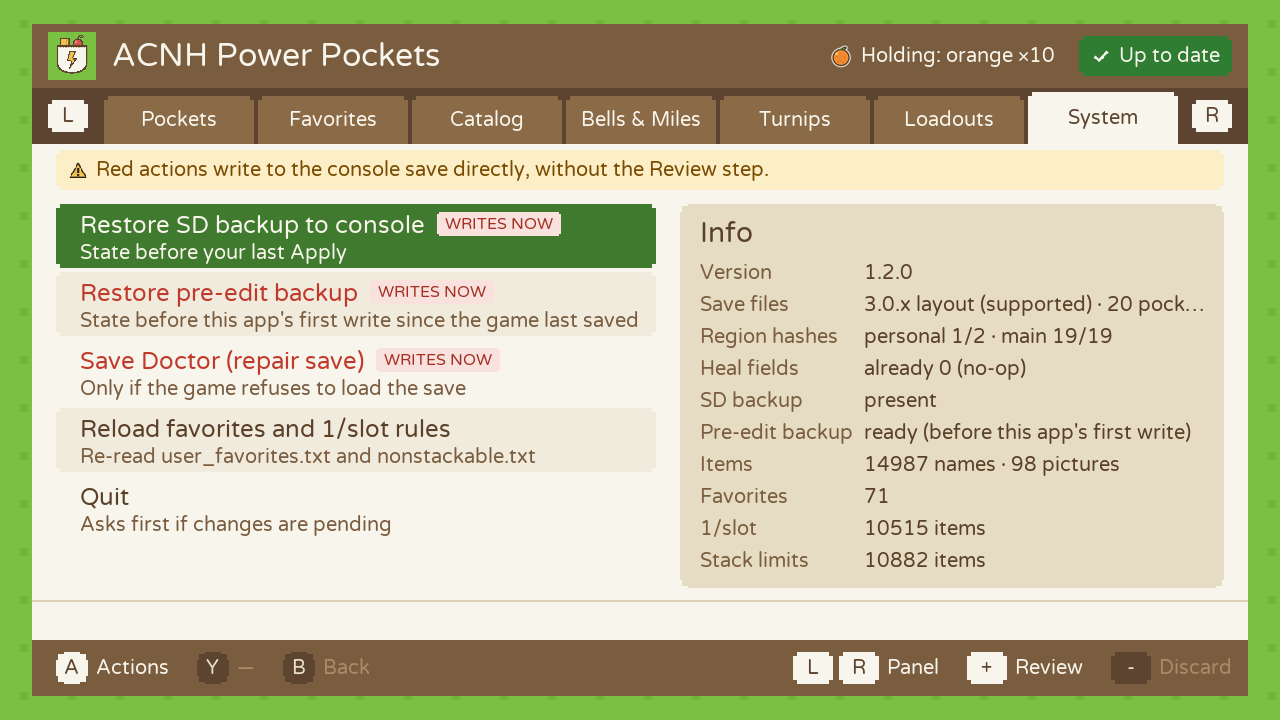
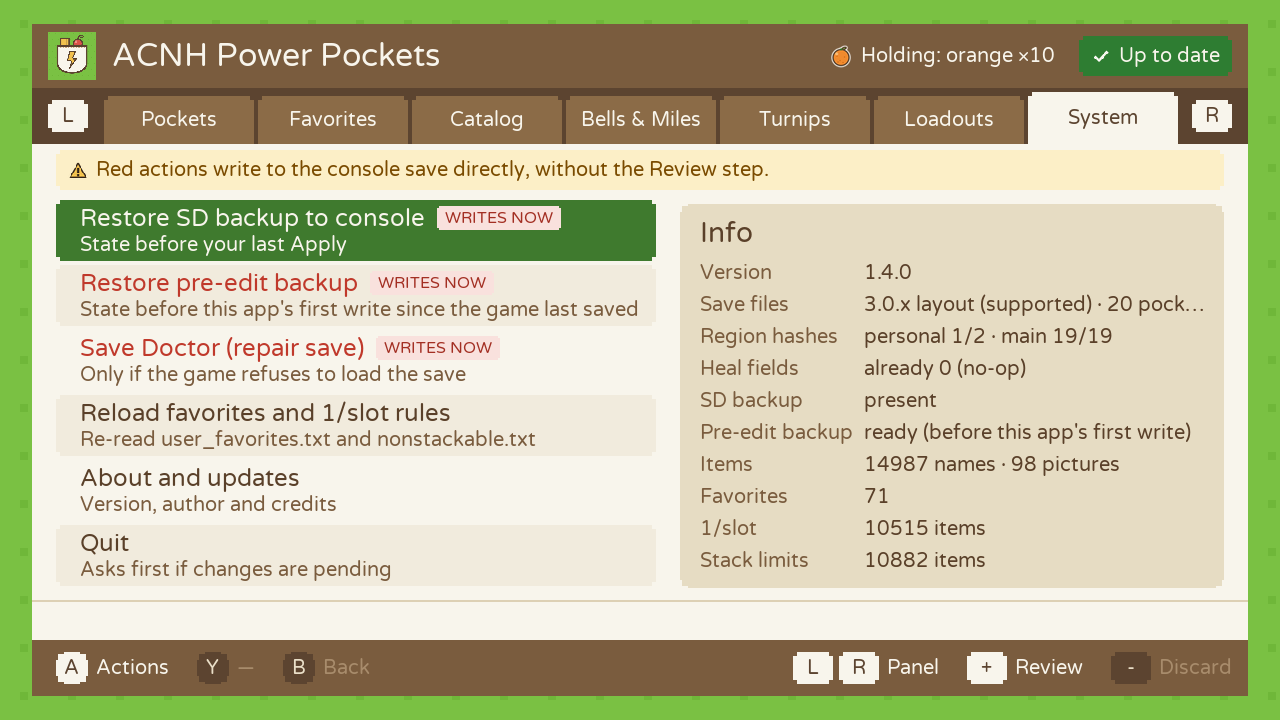
v1.4.0: lists from catalogue.ac over Wi-Fi, About and updates from the app
- Version 1.4.0.
- README: screenshots of Your lists, a list, the Receive screen, the page on a phone
  and About; one file per received list in lists/.
- The status line no longer says "0 items" on "Receive a list from catalogue.ac".
- The screenshot gallery renders the lists, with a healthy save.

Changed region(s): [[0.0312, 0.275, 0.5, 0.825], [0.6875, 0.3667, 0.7188, 0.3972]]

diff --git a/tests/host/ui_gallery.cpp b/tests/host/ui_gallery.cpp
@@ -13,6 +13,8 @@
 #include <string>
 #include <vector>
 #include <deque>
+#include <functional>
+#include <sys/stat.h>
 
 using namespace pp;
 
@@ -61,7 +63,7 @@ int main(int argc, char** argv) {
     const std::string root = argv[1];
     g_out = argv[2];
     const std::string sd = g_out + "/sd/";
-    const char* assets[] = { "font.ttf", "icon.png", "ui_icons.png", "author.png", "nonstackable.txt", "item_glyphs.png", "item_glyphs.txt", "item_stacks.txt", "item_collections.txt" };
+    const char* assets[] = { "font.ttf", "icon.png", "ui_icons.png", "author.png", "nonstackable.txt", "item_glyphs.png", "item_glyphs.txt", "item_stacks.txt", "item_collections.txt", "catalogue_ac.txt" };
     for (const char* a : assets) copyFile((root + "/assets/" + a).c_str(), (sd + a).c_str());
 
     std::vector<Item> items;
@@ -232,6 +234,45 @@ int main(int argc, char** argv) {
 
     (void)L;
     ui.shutdown();
+
+    // Lists from catalogue.ac: Your lists, one list open, and the Receive screen.
+    {
+        struct ShowReceiver : Receiver {
+            bool open(std::string& address, int& code, bool& offline) override { offline = false; address = "http://192.168.1.23:8080"; code = 4821; return true; }
+            void close() override {}
+            void poll(const std::function<ReceiveReply(const std::string&)>&) override {}
+            bool lockedOut() override { return false; }
+        } rx;
+        ClothingIds clothing; clothing.load((sd + "catalogue_ac.txt").c_str());
+        const std::string dir = sd + "lists";
+        mkdir(dir.c_str(), 0777);
+        FILE* lf = fopen((dir + "/catalogue-2026-11-26.json").c_str(), "wb");
+        if (lf) {
+            fprintf(lf, "{\"lists\":[{\"name\":\"Japanese bedroom\",\"items\":{\"%d\":1,\"%d\":1,\"%d\":1,\"%d\":2,\"%d\":1,\"%d\":1,\"%d\":2,\"%d\":4}},"
+                        "{\"name\":\"Garden party\",\"items\":{\"%d\":1,\"%d\":4,\"%d\":2,\"%d\":6,\"%d\":2}}]}",
+                    I("imperial bed"), I("imperial chest"), I("imperial low table"), I("imperial partition"), I("imperial decorative shelves"),
+                    I("bamboo shelf"), I("bamboo stool"), I("paper lantern"),
+                    I("outdoor picnic set"), I("tiki torch"), I("garden lantern"), I("rope fence"), I("stone lion-dog"));
+            fclose(lf);
+        }
+        ImportedLists lists; lists.load(dir, items, clothing);
+        EngineHooks hl = h;
+        hl.receiver = &rx; hl.lists = &lists; hl.clothing = &clothing; hl.listsDir = dir;
+        hl.info = [&](InfoData& d) {
+            d.saveSizeOk = true; d.personalSize = 0x74A40; d.mainSize = 0x9B0E90;
+            d.pRegOk = d.pRegCount = 2; d.mRegOk = d.mRegCount = 19; d.poisonAllZero = true;
+            d.backupPersonal = d.backupMain = d.sessionPersonal = d.sessionMain = 1;
+        };
+        Ui ul; ul.init(ren, sd); ul.start(hl); idle(ul);
+        press(ul, R, 2); press(ul, RIGHT); press(ul, A); press(ul, DOWN); idle(ul);
+        shot("lists");
+        press(ul, Y); idle(ul);
+        shot("list-open");
+        press(ul, UP); press(ul, RIGHT); press(ul, A); press(ul, UP); press(ul, A); idle(ul);
+        shot("list-receive");
+        press(ul, B); idle(ul);
+        ul.shutdown();
+    }
 
     // Pockets with the two upgrades (40 slots): the grid grows to 4 columns.
     {

diff --git a/source/pp_ui.cpp b/source/pp_ui.cpp
@@ -2238,7 +2238,9 @@ struct Ui::Impl {
                         const CollRef& r = L[std::max(0, std::min(browseFocus, (int)L.size() - 1))];
                         const CollectionGroup& g = allG[r.g];
                         const int n = (int)g.list[r.c].ids.size();
-                        d = g.name + S::DOT + g.list[r.c].name + S::DOT + fmt(S::COLL_COUNT_FMT, n, plural(n));
+                        const UserEntry* ue = userEntry(r.g, r.c);
+                        d = g.name + S::DOT + g.list[r.c].name + S::DOT
+                          + (!ue || ue->kind == 1 ? fmt(S::COLL_COUNT_FMT, n, plural(n)) : std::string(ue->kind == 0 ? S::RX_ENTRY_NOTE : S::LIST_BAD_RIGHT));
                     }
                 } else if (focus[P_CATALOG] > 0 && focus[P_CATALOG] <= (int)results.size()) {
                     uint16_t id = (uint16_t)results[focus[P_CATALOG] - 1];

diff --git a/source/pp_strings.h b/source/pp_strings.h
@@ -128,6 +128,7 @@ static const char* const GRP_YOUR_LISTS   = "Your lists";
 static const char* const LISTS_CREDIT     = "Lists from catalogue.ac";
 static const char* const RX_ENTRY         = "Receive a list from catalogue.ac";
 static const char* const RX_ENTRY_RIGHT   = "Wi-Fi";
+static const char* const RX_ENTRY_NOTE    = "from your phone or computer, over Wi-Fi";
 static const char* const LIST_BAD_FMT     = "%s \xC2\xB7 can't be read";
 static const char* const LIST_BAD_RIGHT   = "A: delete";
 static const char* const M_OPEN_LIST      = "Open";

diff --git a/README.md b/README.md
@@ -61,6 +61,15 @@ With the pocket upgrades from Nook's Cranny, the grid shows your 30 or 40 slots.
 | ![Catalog search results for sneakers, each in its own color](docs/screenshots/catalog.png) | ![The Japanese traditional collection, filtered to furniture](docs/screenshots/collections.png) |
 | **Catalog.** Search about 11,000 named items by name or by hex ID. | **Collections.** 113 themed lists: a Japanese traditional style, furniture series, HHA themes, clothing styles. **ZL / ZR** keep one type of item. |
 
+### Your catalogue.ac lists, sent from your phone
+
+Plan a room on [The ULTIMATE Catalogue](https://catalogue.ac), then send your lists to the console over your own Wi-Fi, without taking the SD card out. **A › Fill pockets with this list** puts what a list still needs into your empty slots and skips what you already carry. See [Lists from catalogue.ac](#lists-from-catalogueac).
+
+| | |
+|---|---|
+| ![Your lists in the Catalog: Receive a list, then two lists from catalogue.ac](docs/screenshots/lists.png) | ![A list from catalogue.ac open in the Catalog](docs/screenshots/list-open.png) |
+| **Your lists**, above the collections. **A** for Fill pockets or Delete, **Y** to open. | **A list, open.** Take its items with **Y**, like any collection. |
+
 ![Loadouts panel with a preview of the saved pockets](docs/screenshots/loadouts.png)
 
 **Loadouts.** Five pocket setups saved on the SD card, with a preview.
@@ -108,7 +117,7 @@ Do this once, with a save you can afford to lose. It checks, on your console and
 
 Requirements: a Switch running Atmosphère, and Animal Crossing: New Horizons **3.0.x** (other save versions open read-only).
 
-1. Download `ACNH-Power-Pockets-v1.3.0.zip` (or whatever is newest) from the [latest release](../../releases/latest) and extract it to the root of the SD card. It creates `switch/acnh_power_pockets/`. Builds of every commit are also in the [Actions tab](../../actions) (GitHub login required).
+1. Download `ACNH-Power-Pockets-v1.4.0.zip` (or whatever is newest) from the [latest release](../../releases/latest) and extract it to the root of the SD card. It creates `switch/acnh_power_pockets/`. Builds of every commit are also in the [Actions tab](../../actions) (GitHub login required).
 2. Fully close the game: HOME › highlight Animal Crossing › **X** › Close. A suspended game overwrites your edits on its next autosave.
 3. Hold **R** while starting Animal Crossing to open the Homebrew Menu, then launch **ACNH Power Pockets**. Launching from the Album is refused: it doesn't give the app enough access.
 
@@ -128,6 +137,8 @@ The folder should contain:
 
 From version 1.4.0, *System › About and updates › Check for updates* looks for a newer release on GitHub and can install it.
 
+![System › About and updates: the author, the credits and Check for updates](docs/screenshots/about.png)
+
 - **Nothing happens on its own.** The app connects only when you press that button and confirm, never turns Wi-Fi on, and sends nothing about you or your save. Going online with custom firmware is at your own risk; you can always update by hand instead.
 - **What is checked:** the connection is HTTPS with certificate verification, the package must be the one published in this repository, and its SHA-256 must match the one GitHub publishes. A package with anything unexpected in it is refused whole.
 - **What is replaced:** the files of the release, in `switch/acnh_power_pockets/`. Your save, backups, loadouts, favorites and your `nonstackable.txt` are not touched. The installation runs when the app closes, after the save was closed.
@@ -140,6 +151,10 @@ It only works for the copy of the app at `switch/acnh_power_pockets/acnh_power_p
 From version 1.4.0, the lists you make on [The ULTIMATE Catalogue](https://catalogue.ac) show up in *Catalog › Browse collections › Your lists*. Open one and take its items with **Y**, or use **A › Fill pockets with this list**: what the list still needs goes into your empty slots, with the quantities. What your pockets already hold is skipped, so after a trip home a second Fill brings the rest of the list. As always, nothing is written until you apply.
 
 To get a list onto the console, without taking the SD card out:
+
+| | |
+|---|---|
+| ![The Receive screen: an address and a 4-digit code](docs/screenshots/list-receive.png) | <img src="docs/screenshots/receive-page.png" width="240" alt="The page served by the console, on a phone: the code, the export file or share link, Send"> |
 
 1. In Power Pockets: *Catalog › Browse collections › Receive a list from catalogue.ac*. The console shows an address and a 4-digit code.
 2. On your phone or computer, on the same Wi-Fi, open that address. Drop the file from catalogue.ac's menu › *Export*, or paste a list's share link (`https://catalogue.ac/?l=…`), type the code and send.
@@ -233,7 +248,7 @@ All in `sdmc:/switch/acnh_power_pockets/`.
 | `damaged_*.dat` | Save Doctor | Copy taken before a repair |
 | `l_0.dat` … `l_4.dat` | the app | Loadouts: 160 bytes for 20 slots (the upstream format), 320 bytes for 30 or 40 slots |
 | `layout_*.dat` | the app | Cache of the save's region layout |
-| `lists/` | the app, or you | Lists from catalogue.ac: exports (`.json`) and share links (`.txt`). Delete them from *Your lists* or by hand |
+| `lists/` | the app, or you | Lists from catalogue.ac: one `.json` file per list received (sending a list again replaces it), and the exports (`.json`) or share links (`.txt`) you copy there yourself. Delete them from *Your lists* or by hand |
 | `update/` | the app | A downloaded update, and the previous version after an update (`previous.nro`) |
 
 `user_favorites.txt` format:
